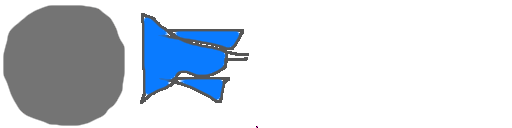
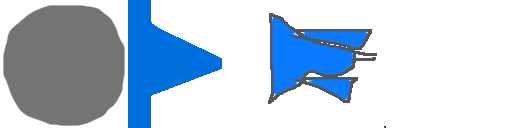
adds building system

Changed region(s): [[0.25, 0.0, 0.75, 1.0]]

diff --git a/core/src/com/sergey/spacegame/common/ecs/system/BuildingSystem.kt b/core/src/com/sergey/spacegame/common/ecs/system/BuildingSystem.kt
@@ -1,0 +1,29 @@
+package com.sergey.spacegame.common.ecs.system
+
+import com.badlogic.ashley.core.Entity
+import com.badlogic.ashley.core.Family
+import com.badlogic.ashley.systems.IteratingSystem
+import com.badlogic.gdx.math.Vector2
+import com.sergey.spacegame.common.ecs.component.BuildingComponent
+import com.sergey.spacegame.common.ecs.component.PositionComponent
+import com.sergey.spacegame.common.ecs.component.RotationComponent
+import com.sergey.spacegame.common.ecs.component.SizeComponent
+
+class BuildingSystem : IteratingSystem {
+	
+	constructor() : super((Family.all(BuildingComponent::class.java, PositionComponent::class.java, SizeComponent::class.java).get()))
+	
+	override fun processEntity(entity:Entity, deltaTime:Float) {
+		val building = BuildingComponent.MAPPER.get(entity)
+		val pos = PositionComponent.MAPPER.get(entity)
+		val size = SizeComponent.MAPPER.get(entity)
+		val rot = if (RotationComponent.MAPPER.has(entity)) RotationComponent.MAPPER.get(entity) else null
+		
+		val planet = building.planet
+		val planetPos = PositionComponent.MAPPER.get(planet)
+		val planetSize = SizeComponent.MAPPER.get(planet)
+		val rotatedBuildingVector = Vector2(1f,0f).rotate(building.position)
+		pos.setFrom(planetPos.createVector().add(rotatedBuildingVector.cpy().scl(planetSize.w/2+size.w/3, planetSize.h/2+size.w/3)))
+		rot?.r = rotatedBuildingVector.scl(planetSize.h/2, planetSize.w/2).angle() //Don't care about modifying rotatedBuildingVector here
+	}
+}

diff --git a/core/src/com/sergey/spacegame/common/ecs/component/BuildingComponent.kt b/core/src/com/sergey/spacegame/common/ecs/component/BuildingComponent.kt
@@ -1,0 +1,12 @@
+package com.sergey.spacegame.common.ecs.component
+
+import com.badlogic.ashley.core.Component
+import com.badlogic.ashley.core.ComponentMapper
+import com.badlogic.ashley.core.Entity
+
+data class BuildingComponent(var planet:Entity, var position:Float) : Component {
+	companion object Mapping {
+		@JvmField
+		val MAPPER = ComponentMapper.getFor(BuildingComponent::class.java)
+	}
+}

diff --git a/core/src/com/sergey/spacegame/client/ui/screen/GameScreen.java b/core/src/com/sergey/spacegame/client/ui/screen/GameScreen.java
@@ -2,8 +2,10 @@ package com.sergey.spacegame.client.ui.screen;
 
 import com.badlogic.ashley.core.Entity;
 import com.badlogic.gdx.Gdx;
-import com.badlogic.gdx.Screen;
+import com.badlogic.gdx.Input.Keys;
 import com.badlogic.gdx.graphics.OrthographicCamera;
+import com.badlogic.gdx.scenes.scene2d.Stage;
+import com.badlogic.gdx.utils.viewport.ScreenViewport;
 import com.sergey.spacegame.SpaceGame;
 import com.sergey.spacegame.client.ecs.component.VisualComponent;
 import com.sergey.spacegame.client.ecs.system.MainRenderSystem;
@@ -11,14 +13,13 @@ import com.sergey.spacegame.client.ecs.system.OrderRenderSystem;
 import com.sergey.spacegame.client.ecs.system.SelectedRenderSystem;
 import com.sergey.spacegame.client.ecs.system.SelectionControlSystem;
 import com.sergey.spacegame.common.ecs.ECSManager;
+import com.sergey.spacegame.common.ecs.component.BuildingComponent;
 import com.sergey.spacegame.common.ecs.component.ControllableComponent;
 import com.sergey.spacegame.common.ecs.component.PositionComponent;
 import com.sergey.spacegame.common.ecs.component.RotationComponent;
-import com.sergey.spacegame.common.ecs.component.ShipComponent;
 import com.sergey.spacegame.common.ecs.component.SizeComponent;
-import com.sergey.spacegame.common.ecs.component.VelocityComponent;
 
-public class GameScreen implements Screen {
+public class GameScreen extends BaseScreen {
 
 	private OrthographicCamera camera;
 
@@ -30,17 +31,39 @@ public class GameScreen implements Screen {
 	private ECSManager ecsManager;
 
 	private Entity e;
+	
+	private BuildingComponent building;
 
 	@Override
 	public void show() {
 		camera = new OrthographicCamera(Gdx.graphics.getWidth(), Gdx.graphics.getHeight());
-
+		
 		ecsManager = SpaceGame.getInstance().getECSManager();
 		ecsManager.getEngine().addSystem(mainRenderSystem = new MainRenderSystem(camera));
 		ecsManager.getEngine().addSystem(orderRenderSystem = new OrderRenderSystem(camera));
 		ecsManager.getEngine().addSystem(selectedRenderSystem = new SelectedRenderSystem(camera));
 		ecsManager.getEngine().addSystem(selectionControlSystem = new SelectionControlSystem(camera));
 
+		{
+			Entity planet;
+			e = new Entity();
+			ecsManager.getEngine().addEntity(e);
+			e.add(new VisualComponent(SpaceGame.getInstance().getAtlas().findRegion("planets/1")));
+			e.add(new PositionComponent(250, 250));
+			e.add(new SizeComponent(200, 200));
+			planet = e;
+			
+			e = new Entity();
+			ecsManager.getEngine().addEntity(e);
+			e.add(new VisualComponent(SpaceGame.getInstance().getAtlas().findRegion("building/factory")));
+			e.add(new PositionComponent());
+			e.add(new SizeComponent(100,100));
+			e.add(new RotationComponent(0, 0.5f, 0.5f));
+			e.add(new BuildingComponent(planet, 0));
+			e.add(new ControllableComponent());
+		}
+
+		/*
 		e = new Entity();
 		ecsManager.getEngine().addEntity(e);
 
@@ -72,11 +95,13 @@ public class GameScreen implements Screen {
 			e.add(ship);
 		}
 		e.add(new ControllableComponent());
-
+		 */
 	}
 
 	@Override
 	public void render(float delta) {
+		if (Gdx.input.isKeyPressed(Keys.W)) building.setPosition(building.getPosition()+1);
+		if (Gdx.input.isKeyPressed(Keys.S)) building.setPosition(building.getPosition()-1);
 	}
 
 	@Override

diff --git a/core/src/com/sergey/spacegame/SpaceGame.java b/core/src/com/sergey/spacegame/SpaceGame.java
@@ -16,6 +16,7 @@ import com.sergey.spacegame.client.ui.BitmapFontWrapper;
 import com.sergey.spacegame.client.ui.screen.LoadingScreen;
 import com.sergey.spacegame.client.ui.screen.MainMenuScreen;
 import com.sergey.spacegame.common.ecs.ECSManager;
+import com.sergey.spacegame.common.ecs.system.BuildingSystem;
 import com.sergey.spacegame.common.ecs.system.MovementSystem;
 import com.sergey.spacegame.common.ecs.system.OrderSystem;
 import com.sergey.spacegame.common.ecs.system.RotationSystem;
@@ -56,6 +57,7 @@ public class SpaceGame extends Game {
 		ecsManager.getEngine().addSystem(new MovementSystem());
 		ecsManager.getEngine().addSystem(new RotationSystem());
 		ecsManager.getEngine().addSystem(new OrderSystem());
+		ecsManager.getEngine().addSystem(new BuildingSystem());
 
 		inputMultiplexer = new InputMultiplexer();
 		Gdx.input.setInputProcessor(inputMultiplexer);

diff --git a/core/src/com/sergey/spacegame/common/ecs/component/PositionComponent.java b/core/src/com/sergey/spacegame/common/ecs/component/PositionComponent.java
@@ -20,4 +20,9 @@ public class PositionComponent implements Component {
 	public Vector2 createVector() {
 		return new Vector2(x, y);
 	}
+	
+	public void setFrom(Vector2 v) {
+		x = v.x;
+		y = v.y;
+	}
 }
